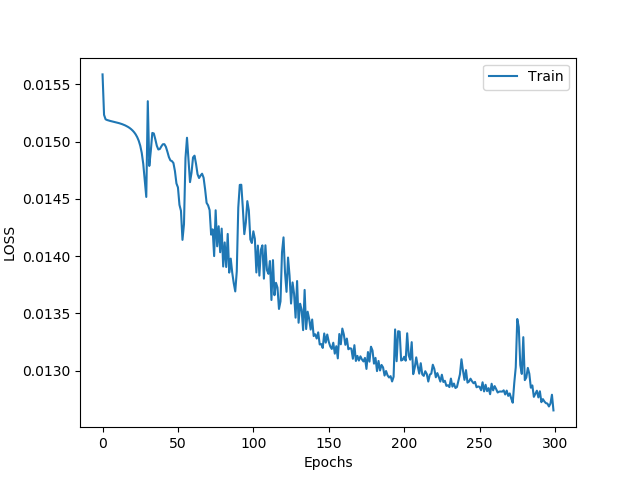
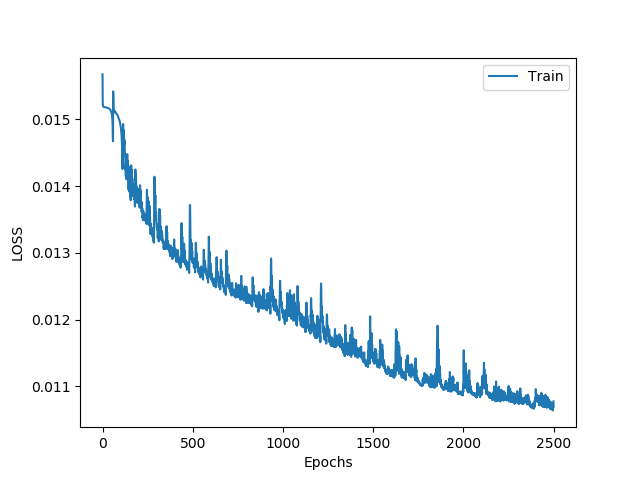
change file path

diff --git a/main.py b/main.py
@@ -11,6 +11,12 @@ from utils import *
 import matplotlib.pyplot as plt
 
 
+def adjust_learning_rate(optimizer, lr):
+    """Sets the learning rate to the initial LR decayed by 10 every 30 epochs"""
+    for param_group in optimizer.param_groups:
+        param_group['lr'] = lr
+
+
 class MyLoss(nn.Module):
     def __init__(self):
         super(MyLoss, self).__init__()
@@ -39,26 +45,27 @@ if __name__ == "__main__":
     model = Mymodel(graph=train_dataset.graph)
     model.cuda()
     loss_function = MyLoss()
-    optimizer = optim.Adam(filter(lambda p: p.requires_grad, model.parameters()), lr=0.001)
+    optimizer = optim.Adam(filter(lambda p: p.requires_grad, model.parameters()), lr=0.01)
 
     semantic = torch.from_numpy(train_dataset.semantic_features).float().cuda()
     classfier_weight = torch.from_numpy(train_dataset.classfierweight).float().cuda()
     classfier_weight = L2_Normalize(classfier_weight)
-
-    epochs = 30000
+    lr = 0.01
+    epochs = 25000
     loss_list = []
-    for i in range(300):
+    for i in range(epochs):
+        if i%500 ==0 and i>0:
+            lr = lr*0.991
+            adjust_learning_rate(optimizer,lr)
         model.train()
-        #for idx, batch_data in enumerate(train_dataloader):
         model.zero_grad()
-
         semantic_feature = model(semantic)
         loss = loss_function(semantic_feature, classfier_weight)
-        #print("",loss)
         loss.backward()
         optimizer.step()
         loss_list.append(float(loss))
-
+        print("finish epoch " + str(i) + ' current loss: ' + str(loss.data))
+    torch.save(model, 'gcn_zsl.pt')
     Test = plt.plot(loss_list, label='Train')
     plt.xlabel('Epochs')
     plt.ylabel('LOSS')

diff --git a/GCNmodel.py b/GCNmodel.py
@@ -34,9 +34,9 @@ class Mymodel(nn.Module):
         super(Mymodel, self).__init__()
 
         self.MLP_layers = nn.Sequential(
-            GraphConvolution(300, 300, graph),
+            GraphConvolution(300, 256, graph),
             nn.LeakyReLU(),
-            GraphConvolution(300, 128, graph),
+            GraphConvolution(256, 128, graph),
             #nn.LeakyReLU(),
             #GraphConvolution(256, 128, graph),
             #nn.LeakyReLU(),

diff --git a/Data_ready.py b/Data_ready.py
@@ -27,7 +27,8 @@ class TestDataset(Dataset):
     def __init__(self):
         self.images = np.load('test_data/test_images.npy')
         self.images = np.transpose(self.images, (0, 3, 1, 2))[0:1]
-
+        semantic_features = word_embeding_get()
+        self.semantic_features = semantic_features
     def __getitem__(self, index):
         image = self.images[index]
         return {'image': image}
